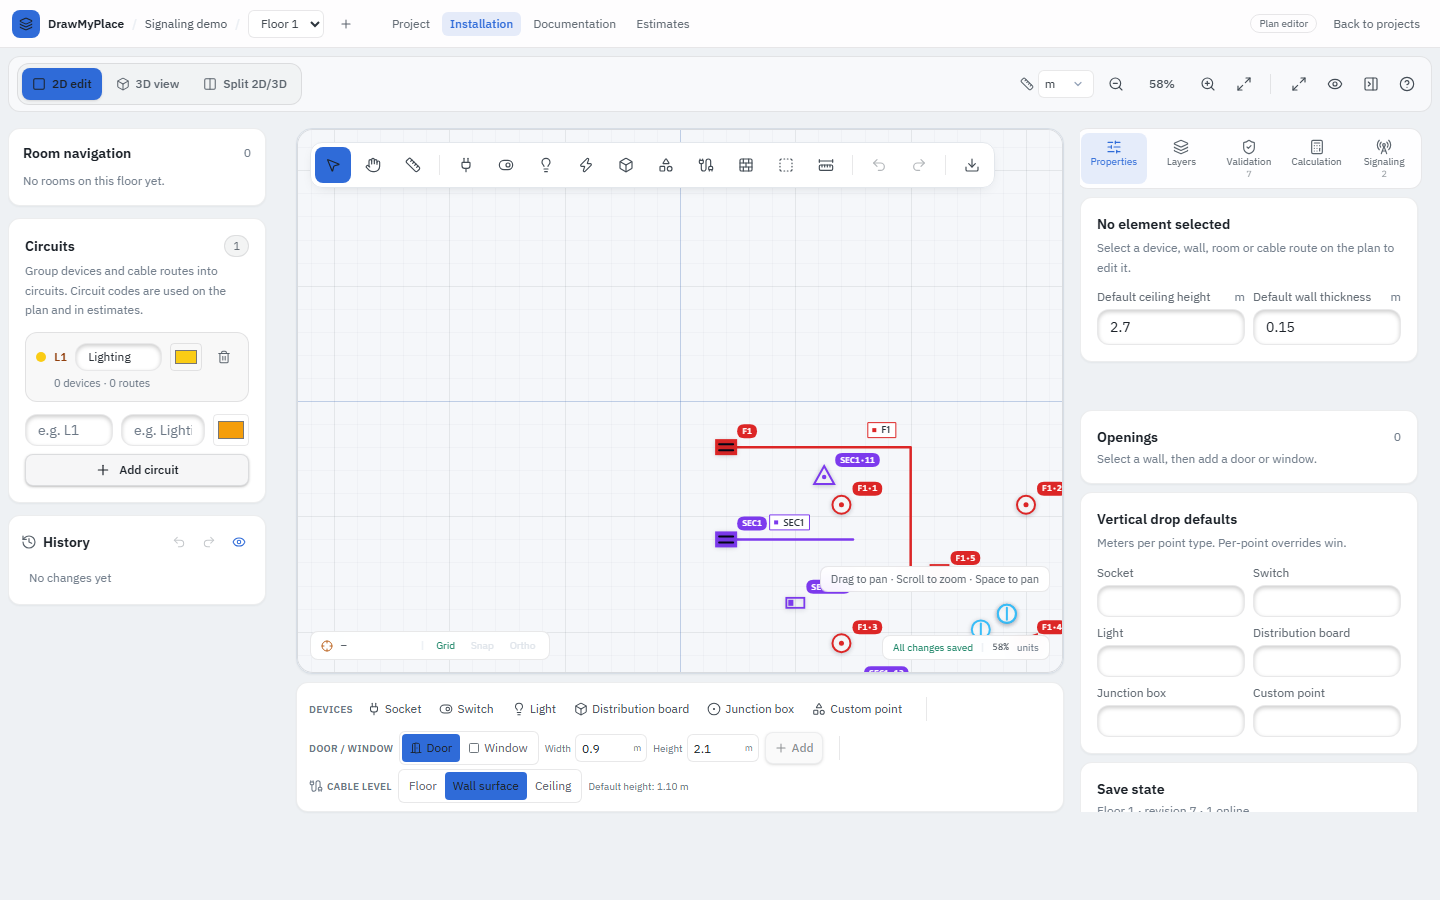
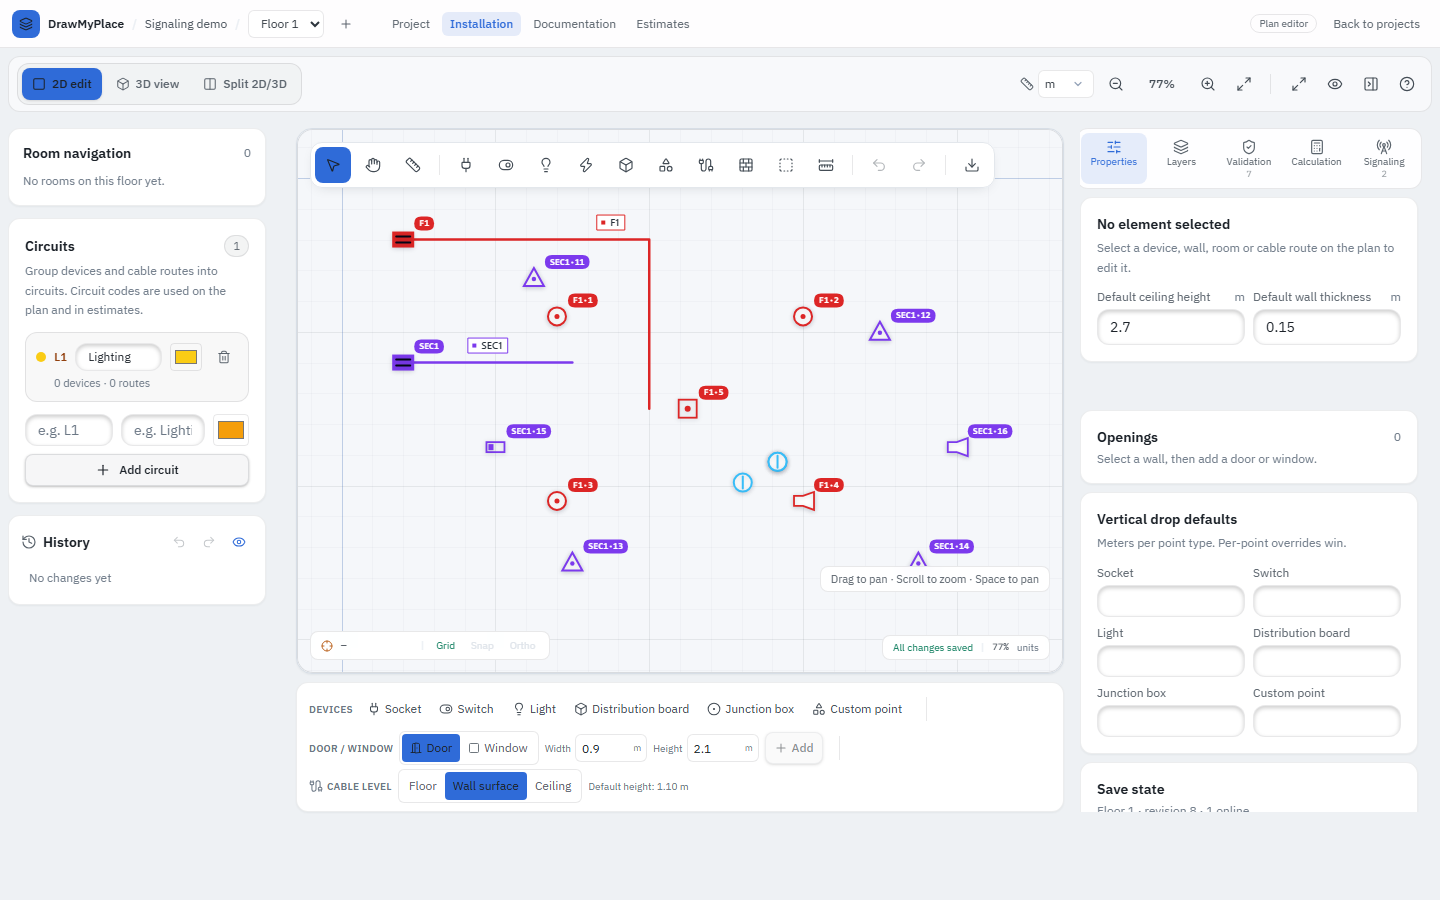
Fit plans by geometry and refresh the editor preview

diff --git a/apps/web/src/features/editor/editor-canvas.tsx b/apps/web/src/features/editor/editor-canvas.tsx
@@ -1145,6 +1145,44 @@ export function EditorCanvas({
     let centerX = 0;
     let centerY = 0;
 
+    // A plan without a raster underlay should fit its actual geometry, not the
+    // default blank sheet, otherwise "fit" leaves the drawing off-centre.
+    if (!currentImage || currentImage.naturalWidth === 0) {
+      let minX = Number.POSITIVE_INFINITY;
+      let minY = Number.POSITIVE_INFINITY;
+      let maxX = Number.NEGATIVE_INFINITY;
+      let maxY = Number.NEGATIVE_INFINITY;
+      const include = (x: number, y: number) => {
+        minX = Math.min(minX, x);
+        minY = Math.min(minY, y);
+        maxX = Math.max(maxX, x);
+        maxY = Math.max(maxY, y);
+      };
+
+      for (const wall of wallsRef.current) {
+        for (const vertex of wall.geometry) include(vertex.x, vertex.y);
+      }
+      for (const room of roomsRef.current) {
+        for (const vertex of room.boundary) include(vertex.x, vertex.y);
+      }
+      for (const point of pointsRef.current) include(point.x, point.y);
+      for (const route of routesRef.current) {
+        for (const vertex of route.geometry) include(vertex.x, vertex.y);
+      }
+      for (const dimension of dimensionsRef.current) {
+        include(dimension.pointA.x, dimension.pointA.y);
+        include(dimension.pointB.x, dimension.pointB.y);
+      }
+
+      if (Number.isFinite(minX) && Number.isFinite(minY)) {
+        const padding = 90;
+        contentWidth = maxX - minX + padding * 2;
+        contentHeight = maxY - minY + padding * 2;
+        centerX = (minX + maxX) / 2;
+        centerY = (minY + maxY) / 2;
+      }
+    }
+
     if (currentImage && currentImage.naturalWidth > 0) {
       const rotatedWidth =
         currentImage.naturalWidth * Math.abs(currentUnderlay.scale);
